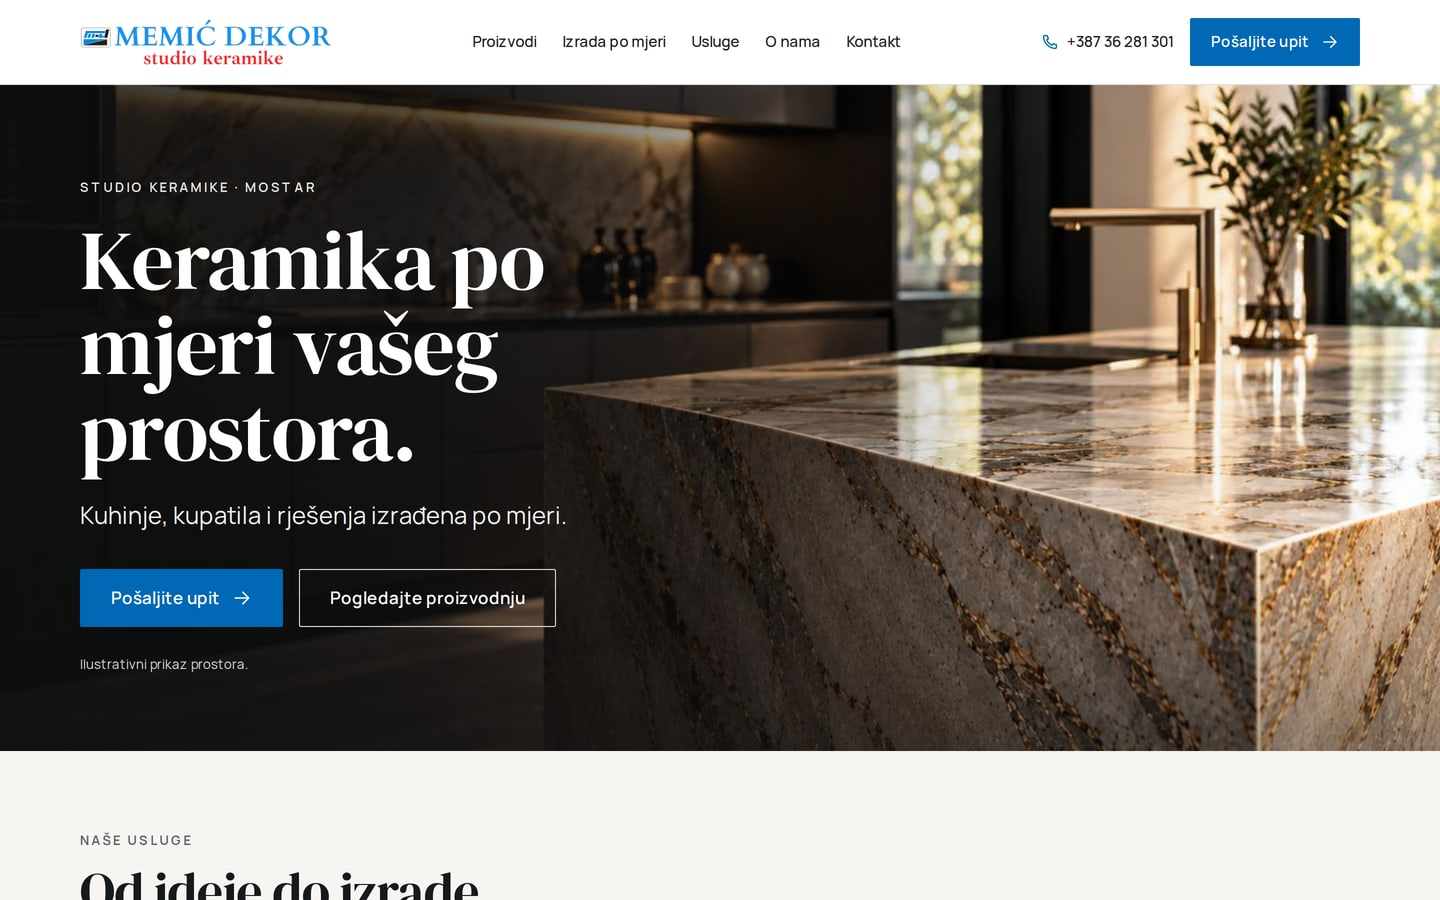
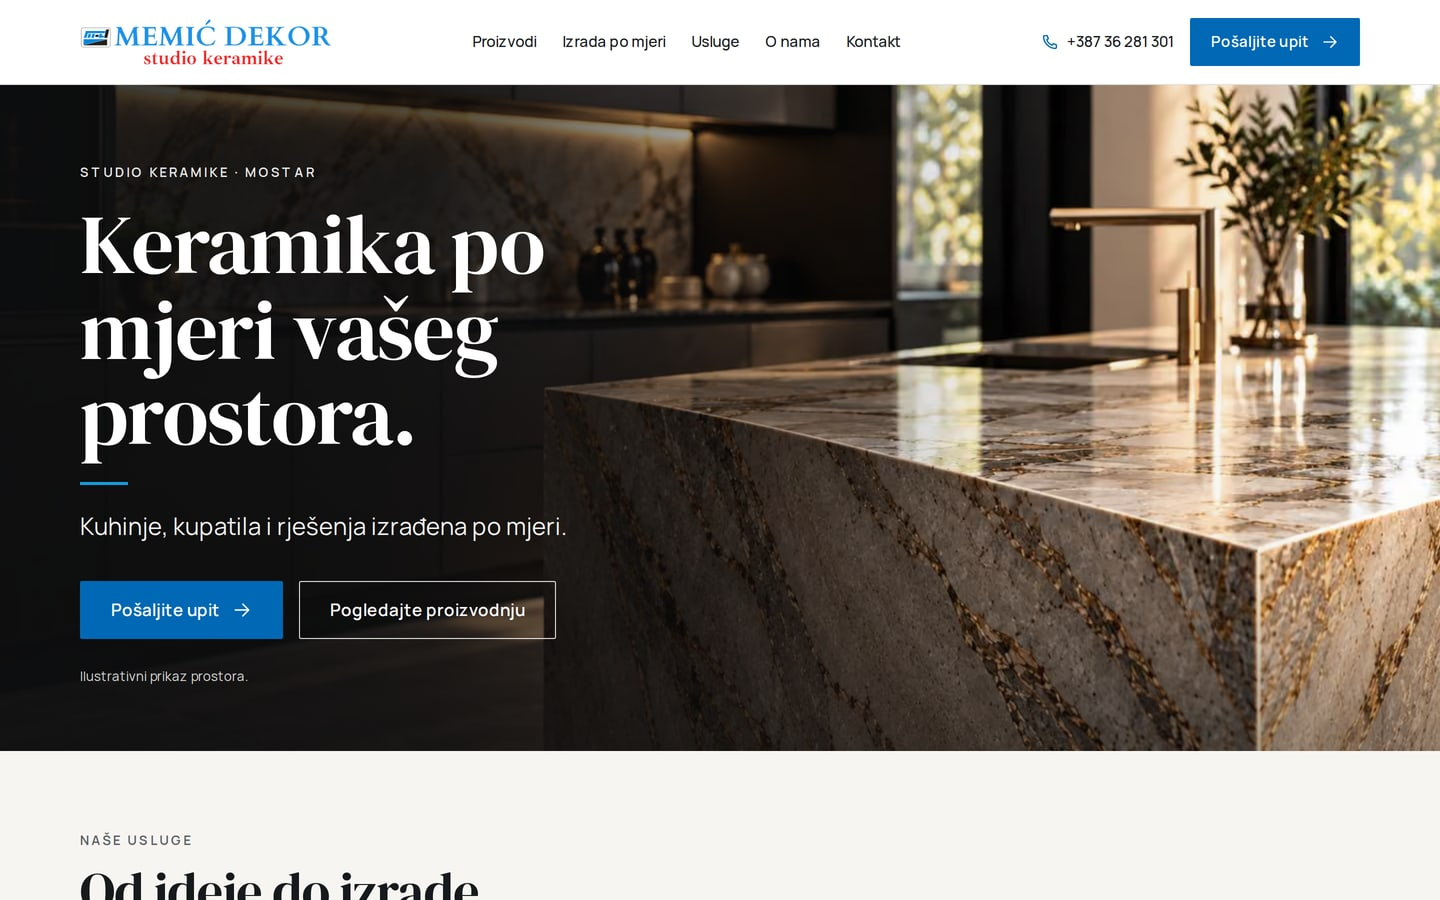
Doradi mobilni kontrast i dodaj provjerene desktop i mobilne snimke

Changed region(s): [[0.0312, 0.1867, 0.4062, 0.7778], [0.2188, 0.6533, 0.375, 0.6844]]

diff --git a/src/components/home/Hero.module.css b/src/components/home/Hero.module.css
@@ -28,20 +28,21 @@
   inset: 0;
   z-index: 1;
   background:
-    linear-gradient(90deg, rgba(14, 15, 16, 0.55) 0%, rgba(14, 15, 16, 0.2) 60%, rgba(14, 15, 16, 0) 100%),
+    linear-gradient(90deg, rgba(14, 15, 16, 0.65) 0%, rgba(14, 15, 16, 0.28) 60%, rgba(14, 15, 16, 0.04) 100%),
     linear-gradient(
       180deg,
-      rgba(14, 15, 16, 0.74) 0%,
-      rgba(14, 15, 16, 0.64) 58%,
-      rgba(14, 15, 16, 0.4) 82%,
-      rgba(14, 15, 16, 0.3) 100%
+      rgba(14, 15, 16, 0.4) 0%,
+      rgba(14, 15, 16, 0.52) 28%,
+      rgba(14, 15, 16, 0.34) 58%,
+      rgba(14, 15, 16, 0.5) 82%,
+      rgba(14, 15, 16, 0.55) 100%
     );
 }
 
 .content {
   position: relative;
   z-index: 2;
-  padding-block: 112px 28px;
+  padding-block: 92px 28px;
 }
 
 .eyebrow {

diff --git a/design-qa.md b/design-qa.md
@@ -1,0 +1,43 @@
+# Vizuelna i funkcionalna provjera — Memić Dekor
+
+final result: passed
+
+## Izvori i snimci
+
+- Vizuelni smjer: `design/smjernica-desktop.jpg` (1469 × 1071) i `design/smjernica-mobitel.jpg` (860 × 1829).
+- Izvedba: `docs/screenshots/pocetna-1440x900.jpg` i `docs/screenshots/pocetna-390x844.jpg`.
+- Preglednici: Chromium, CSS viewport 1440 × 900 / 390 × 844. Snimci projekta nastaju pri gustoći 2× i smanjeni su na CSS veličinu. Izvori su za poređenje skalirani proporcionalno na iste širine, bez rastezanja.
+- Kombinovani pregled izvora i izvedbe: `/tmp/memic-desktop-comparison.jpg`, `/tmp/memic-mobile-comparison.jpg` (radni uporedni snimci).
+- Stanje: početna stranica, zatvoren meni, učitani fontovi i slike. Dodatno pregledani usluge, izbor prostora, galerija, salon i proizvodnja na javnoj stranici.
+- Javna adresa: https://memicdekor.vercel.app/
+
+## Nalazi i dorade
+
+1. [P1, riješeno] Prazna mjesta za fotografije. Uvezeno 11 stvarnih fotografija; javna početna ima 12 prikaza slika, sve se učitavaju i nema placeholdera.
+2. [P2, riješeno] Previše taman mobilni hero. Ublažen prekrivajući gradijent, posebno na desnoj strani fotografije, i smanjen gornji razmak sadržaja.
+3. [P2, riješeno] Prva svjetlija varijanta nije imala dovoljan kontrast malog natpisa na 320 px (3,2:1). Lokalno pojačan gornji dio gradijenta. Nakon popravke svih 20 provjera kontrasta i rasporeda prolazi.
+
+## Pet provjerenih površina
+
+- Tipografija: serifni naslovi DM Serif Display i čitljivi Manrope za tekst; bosanska slova i prijelomi su ispravni. Nema odsijecanja ni pri uvećanju teksta 200 %.
+- Raspored: svijetlo zaglavlje, velika fotografija, lijevo poravnati naslov i poziv na upit; na računaru tri kolone usluga i prostora, na mobitelu jedna. Mobilna dugmad i tekst su namjerno veći nego u rasterizovanoj smjernici, zbog čitljivosti i dodira. Zato je hero viši; naslov i glavni CTA ostaju vidljivi bez skrolanja na 390 × 844.
+- Boje: plavi akcent logotipa, bijeli tekst na tamnoj fotografiji i tople svijetle pozadine. Kontrast je provjeren na stvarnim pikselima fotografije, uz automatske WCAG provjere.
+- Slike: originalni logo umjesto približne verzije u generisanoj smjernici; stvarne fotografije usluga, prostora i projekata. Namjerne razlike: dokumentarne fotografije imaju prirodnu rasvjetu, a ilustrativni hero ostaje označen. Desktop i mobilni izrez se učitavaju odvojeno; nema preuzimanja obje varijante.
+- Sadržaj: bosanski (ijekavica), potvrđeni telefon i adresa, zasluge za saradnju s Modimexom, bez izmišljenih projekata. Gazišta i mozaici ostaju u ponudi, ali ih galerija ne predstavlja nepovezanim slikama.
+
+Poređeni su cjelokupna kompozicija i pojedinačni hero, tipografija, dugmad, logo i slike usluga. Razlike u visini hero sekcije i gustoći sadržaja prihvaćene su kao funkcionalna prilagodba responzivne stranice, a ne reprodukcija rastera piksel po piksel.
+
+## Testovi
+
+- `npm run check`: TypeScript, ESLint i 52 unit testa prolaze.
+- `npm run build`: produkcijski build prolazi.
+- `npm run test:e2e`: 70 testova prolazi prije završnog podešavanja mobilnog gradijenta.
+- Poslije posljednje CSS promjene: svih 20 relevantnih testova kontrasta i rasporeda ponovo prolazi (320–1920 px).
+- Pokriveni: mobilni meni i fokus, Escape, navigacija, CTA, sidra, forma s greškama i uspjehom preko lokalnog testnog servisa, 301 preusmjerenja, metadata, robots, sitemap, lazy loading, reduced motion i uvećan tekst.
+- Javno provjereni: učitavanje svih fotografija na početnoj, odsustvo horizontalnog prelijevanja, otvaranje kontakta i proizvodnje.
+- Konzola: nema uočenih grešaka aplikacije; dvije poruke pripadaju proširenju preglednika.
+- Stvarna isporuka e-maila nije testirana; testovi forme koriste lokalnu zamjenu servisa. DNS i postavke indeksiranja nisu mijenjani.
+
+## Preostalo
+
+Nema otvorenih P0/P1/P2 nalaza za ovu doradu. Buduće fotografije gazišta i mozaika mogu proširiti galeriju kada firma dostavi odgovarajuće originale.

diff --git a/docs/REDIZAJN-2026-09-25.md b/docs/REDIZAJN-2026-09-25.md
@@ -11,4 +11,4 @@ Zahtjev vlasnika: doraditi objavljenu stranicu memicdekor.vercel.app u odabranom
 - Bosanski tekst, potvrđeni kontakti i postojeća SEO pravila zadržani. Aktuelne Instagram objave potvrđuju adresu Maršala Tita 294; stariji FB cover navodi bb.
 - Telefon i e-mail nisu izmijenjeni. Slanje forme i prelazak glavne domene nisu dio ove vizuelne dorade.
 
-Provjere: produkcijski build, TypeScript, ESLint i 52 unit testa prolaze. Završni vizuelni izvještaj je u `design-qa.md`.
+Provjere: produkcijski build, TypeScript, ESLint, 52 unit testa i 70 e2e testova prolaze. Nakon završnog podešavanja mobilnog gradijenta ponovo prolazi svih 20 relevantnih testova kontrasta i rasporeda. Završni vizuelni izvještaj je u `design-qa.md`.
